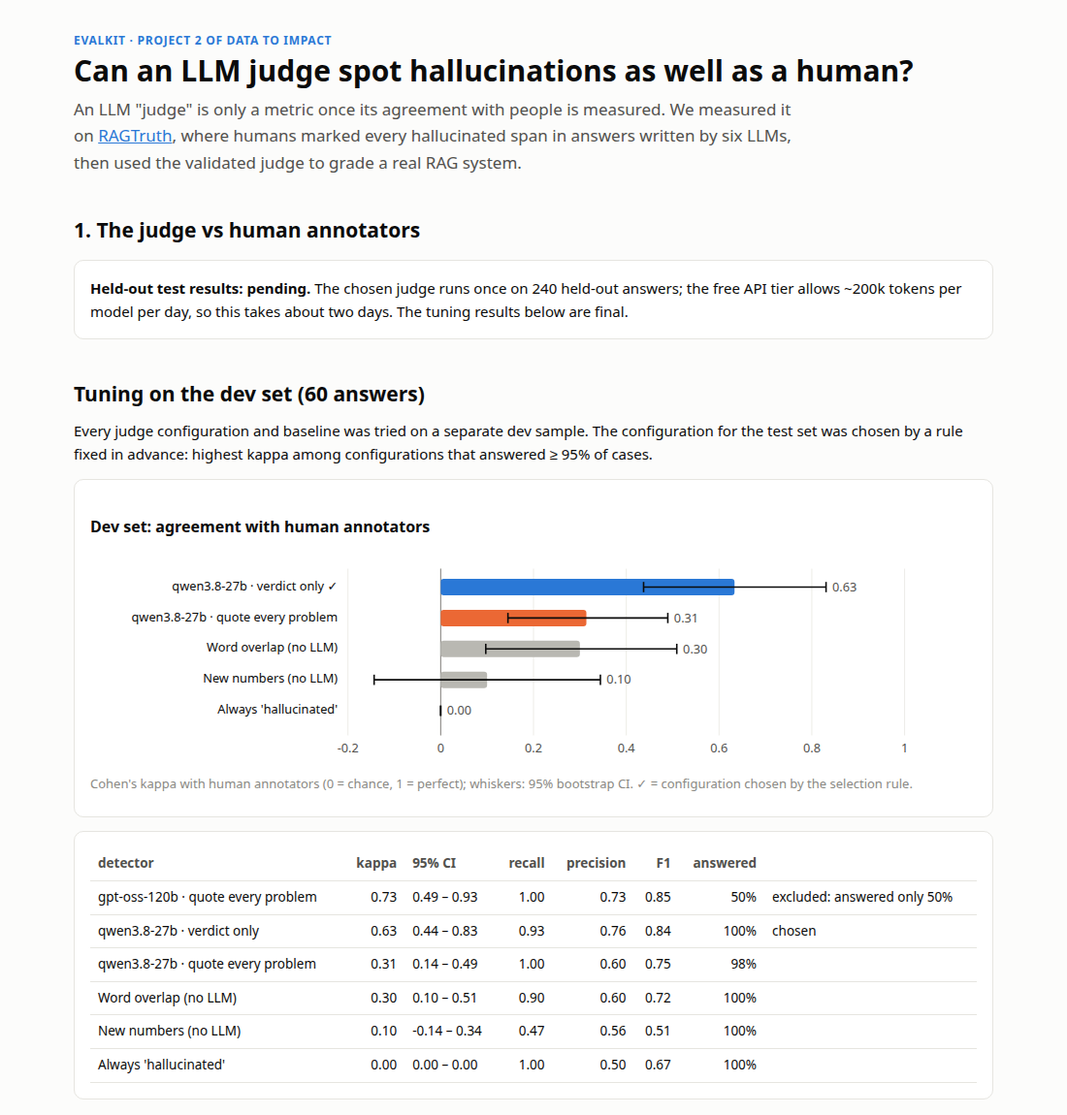
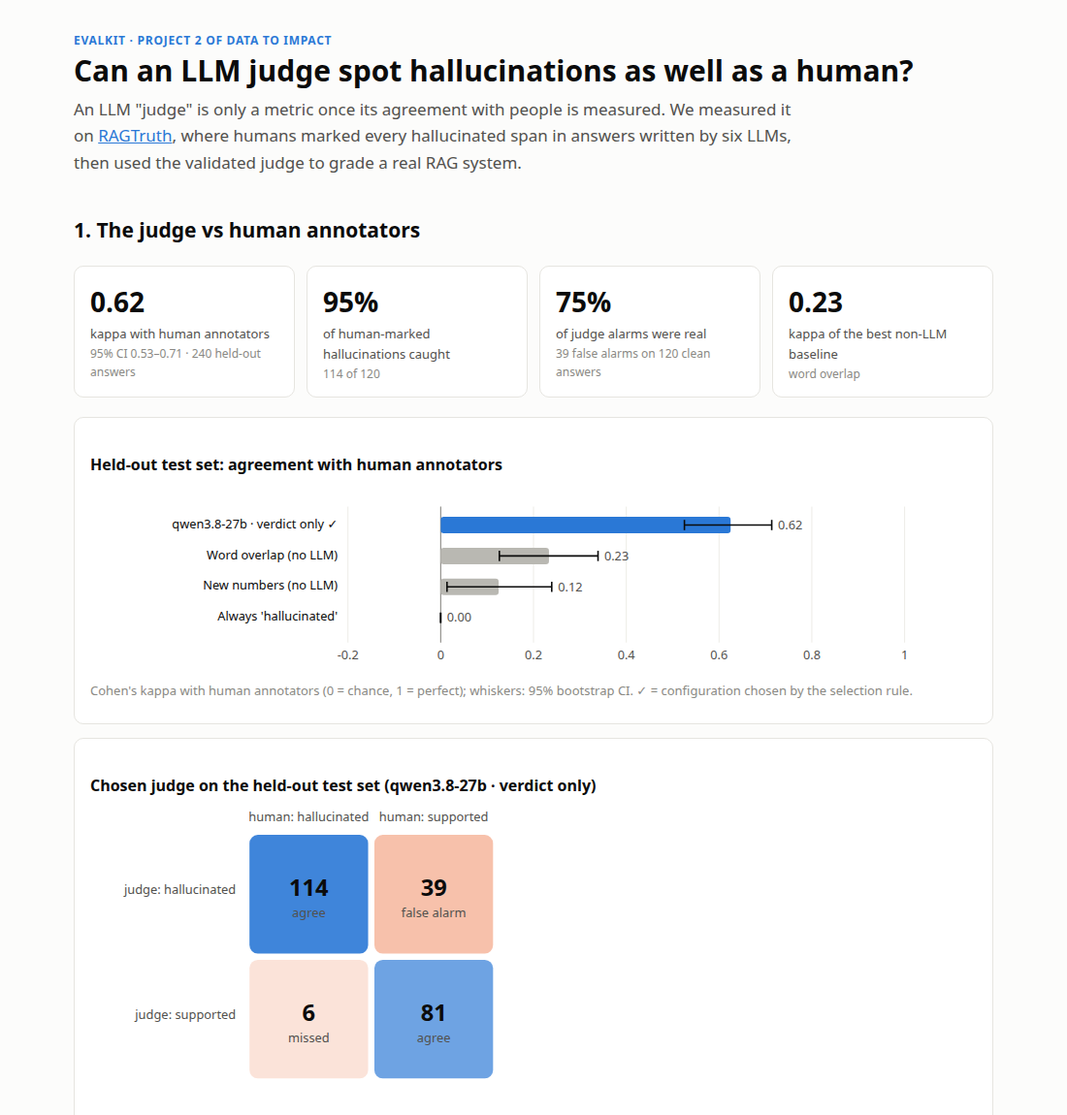
Evals: report page with final held-out results, examples of misses and false alarms, StudyRAG comparison

diff --git a/02-llm-evals/site/index.html b/02-llm-evals/site/index.html
@@ -36,15 +36,33 @@ blockquote{margin:6px 0;padding:6px 10px;border-left:3px solid var(--accent2);ba
 <a href="https://github.com/ParticleMedia/RAGTruth">RAGTruth</a>, where humans marked every hallucinated span in
 answers written by six LLMs, then used the validated judge to grade a real RAG system.</p>
 <h2>1. The judge vs human annotators</h2>
-<div class="card"><b>Held-out test results: pending.</b> The chosen judge runs once on 240 held-out answers; the free API tier allows ~200k tokens per model per day, so this takes about two days. The tuning results below are final.</div><h2>Tuning on the dev set (60 answers)</h2><p>Every judge configuration and baseline was tried on a separate dev sample. The configuration for the test set was chosen by a rule fixed in advance: highest kappa among configurations that answered ≥ 95% of cases.</p><div class="card"><h3>Dev set: agreement with human annotators</h3><svg viewBox="0 0 860 208" width="100%" role="img" aria-label="Dev set: agreement with human annotators"><line class="grid" x1="250.0" x2="250.0" y1="22" y2="184"/><text x="250.0" y="200" text-anchor="middle">-0.2</text><line class="grid" x1="340.0" x2="340.0" y1="22" y2="184"/><text x="340.0" y="200" text-anchor="middle">0</text><line class="grid" x1="430.0" x2="430.0" y1="22" y2="184"/><text x="430.0" y="200" text-anchor="middle">0.2</text><line class="grid" x1="520.0" x2="520.0" y1="22" y2="184"/><text x="520.0" y="200" text-anchor="middle">0.4</text><line class="grid" x1="610.0" x2="610.0" y1="22" y2="184"/><text x="610.0" y="200" text-anchor="middle">0.6</text><line class="grid" x1="700.0" x2="700.0" y1="22" y2="184"/><text x="700.0" y="200" text-anchor="middle">0.8</text><line class="grid" x1="790.0" x2="790.0" y1="22" y2="184"/><text x="790.0" y="200" text-anchor="middle">1</text><line class="axis" x1="340.0" x2="340.0" y1="22" y2="184" style="stroke:var(--muted)"/><text class="lab" x="240" y="43" text-anchor="end">qwen3.8-27b · verdict only ✓</text><rect x="340.0" y="32" width="285.0" height="16" rx="3" fill="var(--accent)"><title>qwen3.8-27b · verdict only ✓: 0.633</title></rect><line x1="536.8" x2="713.8" y1="40" y2="40" stroke="var(--ink)" stroke-width="1.5"/><line x1="536.8" x2="536.8" y1="35" y2="45" stroke="var(--ink)" stroke-width="1.5"/><line x1="713.8" x2="713.8" y1="35" y2="45" stroke="var(--ink)" stroke-width="1.5"/><text x="719.8" y="44">0.63</text><text class="lab" x="240" y="73" text-anchor="end">qwen3.8-27b · quote every problem</text><rect x="340.0" y="62" width="141.3" height="16" rx="3" fill="var(--accent2)"><title>qwen3.8-27b · quote every problem: 0.314</title></rect><line x1="405.2" x2="560.3" y1="70" y2="70" stroke="var(--ink)" stroke-width="1.5"/><line x1="405.2" x2="405.2" y1="65" y2="75" stroke="var(--ink)" stroke-width="1.5"/><line x1="560.3" x2="560.3" y1="65" y2="75" stroke="var(--ink)" stroke-width="1.5"/><text x="566.3" y="74">0.31</text><text class="lab" x="240" y="103" text-anchor="end">Word overlap (no LLM)</text><rect x="340.0" y="92" width="135.0" height="16" rx="3" fill="var(--base)"><title>Word overlap (no LLM): 0.300</title></rect><line x1="383.7" x2="569.0" y1="100" y2="100" stroke="var(--ink)" stroke-width="1.5"/><line x1="383.7" x2="383.7" y1="95" y2="105" stroke="var(--ink)" stroke-width="1.5"/><line x1="569.0" x2="569.0" y1="95" y2="105" stroke="var(--ink)" stroke-width="1.5"/><text x="575.0" y="104">0.30</text><text class="lab" x="240" y="133" text-anchor="end">New numbers (no LLM)</text><rect x="340.0" y="122" width="45.0" height="16" rx="3" fill="var(--base)"><title>New numbers (no LLM): 0.100</title></rect><line x1="275.4" x2="494.9" y1="130" y2="130" stroke="var(--ink)" stroke-width="1.5"/><line x1="275.4" x2="275.4" y1="125" y2="135" stroke="var(--ink)" stroke-width="1.5"/><line x1="494.9" x2="494.9" y1="125" y2="135" stroke="var(--ink)" stroke-width="1.5"/><text x="500.9" y="134">0.10</text><text class="lab" x="240" y="163" text-anchor="end">Always &#x27;hallucinated&#x27;</text><rect x="340.0" y="152" width="0.0" height="16" rx="3" fill="var(--base)"><title>Always &#x27;hallucinated&#x27;: 0.000</title></rect><line x1="340.0" x2="340.0" y1="160" y2="160" stroke="var(--ink)" stroke-width="1.5"/><line x1="340.0" x2="340.0" y1="155" y2="165" stroke="var(--ink)" stroke-width="1.5"/><line x1="340.0" x2="340.0" y1="155" y2="165" stroke="var(--ink)" stroke-width="1.5"/><text x="346.0" y="164">0.00</text></svg><p class="muted">Cohen&#x27;s kappa with human annotators (0 = chance, 1 = perfect); whiskers: 95% bootstrap CI. ✓ = configuration chosen by the selection rule.</p></div><div class="card"><table><thead><tr><th class="">detector</th><th class="num">kappa</th><th class="">95% CI</th><th class="num">recall</th><th class="num">precision</th><th class="num">F1</th><th class="num">answered</th><th class=""></th></tr></thead><tbody><tr><td class="">gpt-oss-120b · quote every problem</td><td class="num">0.73</td><td class="">0.49 – 0.93</td><td class="num">1.00</td><td class="num">0.73</td><td class="num">0.85</td><td class="num">50%</td><td class="">excluded: answered only 50%</td></tr><tr><td class="">qwen3.8-27b · verdict only</td><td class="num">0.63</td><td class="">0.44 – 0.83</td><td class="num">0.93</td><td class="num">0.76</td><td class="num">0.84</td><td class="num">100%</td><td class="">chosen</td></tr><tr><td class="">qwen3.8-27b · quote every problem</td><td class="num">0.31</td><td class="">0.14 – 0.49</td><td class="num">1.00</td><td class="num">0.60</td><td class="num">0.75</td><td class="num">98%</td><td class=""></td></tr><tr><td class="">Word overlap (no LLM)</td><td class="num">0.30</td><td class="">0.10 – 0.51</td><td class="num">0.90</td><td class="num">0.60</td><td class="num">0.72</td><td class="num">100%</td><td class=""></td></tr><tr><td class="">New numbers (no LLM)</td><td class="num">0.10</td><td class="">-0.14 – 0.34</td><td class="num">0.47</td><td class="num">0.56</td><td class="num">0.51</td><td class="num">100%</td><td class=""></td></tr><tr><td class="">Always &#x27;hallucinated&#x27;</td><td class="num">0.00</td><td class="">0.00 – 0.00</td><td class="num">1.00</td><td class="num">0.50</td><td class="num">0.67</td><td class="num">100%</td><td class=""></td></tr></tbody></table></div>
+<div class="tiles"><div class="tile"><div class="v">0.62</div><div class="l">kappa with human annotators</div><div class="s">95% CI 0.53–0.71 · 240 held-out answers</div></div><div class="tile"><div class="v">95%</div><div class="l">of human-marked hallucinations caught</div><div class="s">114 of 120</div></div><div class="tile"><div class="v">75%</div><div class="l">of judge alarms were real</div><div class="s">39 false alarms on 120 clean answers</div></div><div class="tile"><div class="v">0.23</div><div class="l">kappa of the best non-LLM baseline</div><div class="s">word overlap</div></div></div><div class="card"><h3>Held-out test set: agreement with human annotators</h3><svg viewBox="0 0 860 178" width="100%" role="img" aria-label="Held-out test set: agreement with human annotators"><line class="grid" x1="250.0" x2="250.0" y1="22" y2="154"/><text x="250.0" y="170" text-anchor="middle">-0.2</text><line class="grid" x1="340.0" x2="340.0" y1="22" y2="154"/><text x="340.0" y="170" text-anchor="middle">0</text><line class="grid" x1="430.0" x2="430.0" y1="22" y2="154"/><text x="430.0" y="170" text-anchor="middle">0.2</text><line class="grid" x1="520.0" x2="520.0" y1="22" y2="154"/><text x="520.0" y="170" text-anchor="middle">0.4</text><line class="grid" x1="610.0" x2="610.0" y1="22" y2="154"/><text x="610.0" y="170" text-anchor="middle">0.6</text><line class="grid" x1="700.0" x2="700.0" y1="22" y2="154"/><text x="700.0" y="170" text-anchor="middle">0.8</text><line class="grid" x1="790.0" x2="790.0" y1="22" y2="154"/><text x="790.0" y="170" text-anchor="middle">1</text><line class="axis" x1="340.0" x2="340.0" y1="22" y2="154" style="stroke:var(--muted)"/><text class="lab" x="240" y="43" text-anchor="end">qwen3.8-27b · verdict only ✓</text><rect x="340.0" y="32" width="281.2" height="16" rx="3" fill="var(--accent)"><title>qwen3.8-27b · verdict only ✓: 0.625</title></rect><line x1="576.4" x2="661.1" y1="40" y2="40" stroke="var(--ink)" stroke-width="1.5"/><line x1="576.4" x2="576.4" y1="35" y2="45" stroke="var(--ink)" stroke-width="1.5"/><line x1="661.1" x2="661.1" y1="35" y2="45" stroke="var(--ink)" stroke-width="1.5"/><text x="667.1" y="44">0.62</text><text class="lab" x="240" y="73" text-anchor="end">Word overlap (no LLM)</text><rect x="340.0" y="62" width="105.0" height="16" rx="3" fill="var(--base)"><title>Word overlap (no LLM): 0.233</title></rect><line x1="396.9" x2="492.6" y1="70" y2="70" stroke="var(--ink)" stroke-width="1.5"/><line x1="396.9" x2="396.9" y1="65" y2="75" stroke="var(--ink)" stroke-width="1.5"/><line x1="492.6" x2="492.6" y1="65" y2="75" stroke="var(--ink)" stroke-width="1.5"/><text x="498.6" y="74">0.23</text><text class="lab" x="240" y="103" text-anchor="end">New numbers (no LLM)</text><rect x="340.0" y="92" width="56.2" height="16" rx="3" fill="var(--base)"><title>New numbers (no LLM): 0.125</title></rect><line x1="346.1" x2="447.7" y1="100" y2="100" stroke="var(--ink)" stroke-width="1.5"/><line x1="346.1" x2="346.1" y1="95" y2="105" stroke="var(--ink)" stroke-width="1.5"/><line x1="447.7" x2="447.7" y1="95" y2="105" stroke="var(--ink)" stroke-width="1.5"/><text x="453.7" y="104">0.12</text><text class="lab" x="240" y="133" text-anchor="end">Always &#x27;hallucinated&#x27;</text><rect x="340.0" y="122" width="0.0" height="16" rx="3" fill="var(--base)"><title>Always &#x27;hallucinated&#x27;: 0.000</title></rect><line x1="340.0" x2="340.0" y1="130" y2="130" stroke="var(--ink)" stroke-width="1.5"/><line x1="340.0" x2="340.0" y1="125" y2="135" stroke="var(--ink)" stroke-width="1.5"/><line x1="340.0" x2="340.0" y1="125" y2="135" stroke="var(--ink)" stroke-width="1.5"/><text x="346.0" y="134">0.00</text></svg><p class="muted">Cohen&#x27;s kappa with human annotators (0 = chance, 1 = perfect); whiskers: 95% bootstrap CI. ✓ = configuration chosen by the selection rule.</p></div><div class="card"><h3>Chosen judge on the held-out test set (qwen3.8-27b · verdict only)</h3><svg viewBox="0 0 410 300" width="100%" style="max-width:440px" role="img" aria-label="Chosen judge on the held-out test set (qwen3.8-27b · verdict only)"><text x="210.0" y="16" text-anchor="middle">human: hallucinated</text><text x="330.0" y="16" text-anchor="middle">human: supported</text><text x="140" y="86.0" text-anchor="end">judge: hallucinated</text><text x="140" y="206.0" text-anchor="end">judge: supported</text><rect x="153.0" y="29.0" width="114" height="114" rx="8" fill="var(--accent)" fill-opacity="0.90"/><text class="lab" x="210.0" y="88.0" text-anchor="middle" style="font-size:22px;font-weight:700">114</text><text x="210.0" y="108.0" text-anchor="middle">agree</text><rect x="273.0" y="29.0" width="114" height="114" rx="8" fill="var(--accent2)" fill-opacity="0.41"/><text class="lab" x="330.0" y="88.0" text-anchor="middle" style="font-size:22px;font-weight:700">39</text><text x="330.0" y="108.0" text-anchor="middle">false alarm</text><rect x="153.0" y="149.0" width="114" height="114" rx="8" fill="var(--accent2)" fill-opacity="0.19"/><text class="lab" x="210.0" y="208.0" text-anchor="middle" style="font-size:22px;font-weight:700">6</text><text x="210.0" y="228.0" text-anchor="middle">missed</text><rect x="273.0" y="149.0" width="114" height="114" rx="8" fill="var(--accent)" fill-opacity="0.68"/><text class="lab" x="330.0" y="208.0" text-anchor="middle" style="font-size:22px;font-weight:700">81</text><text x="330.0" y="228.0" text-anchor="middle">agree</text></svg></div><h3>Where does it agree less?</h3><div class="card"><table><thead><tr><th class="">task</th><th class="num">n</th><th class="num">kappa</th><th class="num">recall</th><th class="num">precision</th><th class="num">accuracy</th></tr></thead><tbody><tr><td class="">Data2txt</td><td class="num">60</td><td class="num">0.60</td><td class="num">0.93</td><td class="num">0.74</td><td class="num">0.80</td></tr><tr><td class="">QA</td><td class="num">120</td><td class="num">0.55</td><td class="num">0.98</td><td class="num">0.69</td><td class="num">0.78</td></tr><tr><td class="">Summary</td><td class="num">60</td><td class="num">0.80</td><td class="num">0.90</td><td class="num">0.90</td><td class="num">0.90</td></tr></tbody></table></div><div class="card"><table><thead><tr><th class="">generator</th><th class="num">n</th><th class="num">kappa</th><th class="num">recall</th><th class="num">precision</th><th class="num">accuracy</th></tr></thead><tbody><tr><td class="">gpt-3.5-turbo-0613</td><td class="num">27</td><td class="num">0.43</td><td class="num">0.60</td><td class="num">0.50</td><td class="num">0.81</td></tr><tr><td class="">gpt-4-0613</td><td class="num">39</td><td class="num">0.49</td><td class="num">0.80</td><td class="num">0.44</td><td class="num">0.85</td></tr><tr><td class="">llama-2-13b-chat</td><td class="num">37</td><td class="num">0.53</td><td class="num">1.00</td><td class="num">0.77</td><td class="num">0.81</td></tr><tr><td class="">llama-2-70b-chat</td><td class="num">38</td><td class="num">0.53</td><td class="num">0.89</td><td class="num">0.70</td><td class="num">0.76</td></tr><tr><td class="">llama-2-7b-chat</td><td class="num">56</td><td class="num">0.37</td><td class="num">0.97</td><td class="num">0.70</td><td class="num">0.73</td></tr><tr><td class="">mistral-7B-instruct</td><td class="num">43</td><td class="num">0.76</td><td class="num">1.00</td><td class="num">0.92</td><td class="num">0.93</td></tr></tbody></table></div><h3>Hallucinations the judge missed</h3><div class="card"><p class='muted'>QA · written by gpt-4-0613</p><blockquote>To perform skill moves on FIFA 16 for Xbox One, you need to use combinations of buttons on your controller. For example, to do a Ball Juggle while your character is standing, hold LT and tap RB. Video guides showing what each skill move looks like are available at the top of the relevant page.</blockquote><p><b>Humans marked:</b> “Video guides showing what each skill move looks like are available at the top of the relevant page.” (Evident Baseless Info)</p></div><div class="card"><p class='muted'>Data2txt · written by gpt-3.5-turbo-0613</p><blockquote>Soho Restaurant &amp; Music Club is a local business located at 1221 State St, Ste 205 in Santa Barbara, CA. It is a versatile establishment that offers music, food, and drinks for its customers. The venue operates from Monday to Sunday, with varying hours each day, allowing patrons to enjoy their services throughout the week.
+
+As a music venue, Soho provides a platform for live performances, creating a vibrant atmospher…</blockquote><p><b>Humans marked:</b> “The venue operates from Monday to Sunday” (Evident Conflict)</p></div><div class="card"><p class='muted'>Summary · written by llama-2-70b-chat</p><blockquote>The Rolling Stone article about a purported gang rape at the University of Virginia (UVA) has been retracted, but the story has brought attention to the university&#x27;s handling of sexual assault cases. The university has never expelled a student for sexual assault, even when the student admits to it. The Virginia attorney general has asked a law firm to investigate how UVA historically handled allegations of sexual ass…</blockquote><p><b>Humans marked:</b> “Survivors and advocates are concerned that the retraction may discourage others from coming forward, but the article has sparked a necessary conversation about ” (Evident Baseless Info)</p></div><h3>False alarms</h3><div class="card"><p class='muted'>QA · written by llama-2-13b-chat</p><blockquote>Based on the given passages, here are the steps to fold a quilt:
+
+1. Lay the quilt on a flat surface.
+2. Fold the lower right corner up towards the center of the quilt, ensuring the fold is on the bias.
+3. Fold the lower left corner up towards the center of the quilt, also on the bias.
+4. Fold the top left corner down towards the center of the quilt, again on the bias.
+5. Fold the top right corner down towards the ce…</blockquote><p><b>Judge objected to:</b> (verdict-only rubric: no quote)</p></div><div class="card"><p class='muted'>QA · written by llama-2-7b-chat</p><blockquote>Based on the provided passages, the main differences between essential and non-essential amino acids are:
+
+Essential Amino Acids:
+
+* Must be obtained from the diet
+* Cannot be produced by the body
+* Nine out of 20 amino acids are considered essential (valine, isoleucine, leucine, lysine, methionine, phenylalanine, threonine, tryptophan, and histidine for infants)
+
+Non-Essential Amino Acids:
+
+* Can be produced by the …</blockquote><p><b>Judge objected to:</b> (verdict-only rubric: no quote)</p></div><div class="card"><p class='muted'>Data2txt · written by llama-2-70b-chat</p><blockquote>Metropulos Fine Foods is a restaurant located in Santa Barbara, CA, offering a variety of sandwiches, soups, salads, and specialty food items. According to customer reviews, the establishment has reasonable prices, delicious sandwiches, and a cozy atmosphere. One reviewer noted that the place has a old-school vibe, and the staff can sometimes come across as rushing customers. Some customers have also noted that the p…</blockquote><p><b>Judge objected to:</b> (verdict-only rubric: no quote)</p></div><h2>Tuning on the dev set (60 answers)</h2><p>Every judge configuration and baseline was tried on a separate dev sample. The configuration for the test set was chosen by a rule fixed in advance: highest kappa among configurations that answered ≥ 95% of cases.</p><div class="card"><h3>Dev set: agreement with human annotators</h3><svg viewBox="0 0 860 298" width="100%" role="img" aria-label="Dev set: agreement with human annotators"><line class="grid" x1="250.0" x2="250.0" y1="22" y2="274"/><text x="250.0" y="290" text-anchor="middle">-0.2</text><line class="grid" x1="340.0" x2="340.0" y1="22" y2="274"/><text x="340.0" y="290" text-anchor="middle">0</text><line class="grid" x1="430.0" x2="430.0" y1="22" y2="274"/><text x="430.0" y="290" text-anchor="middle">0.2</text><line class="grid" x1="520.0" x2="520.0" y1="22" y2="274"/><text x="520.0" y="290" text-anchor="middle">0.4</text><line class="grid" x1="610.0" x2="610.0" y1="22" y2="274"/><text x="610.0" y="290" text-anchor="middle">0.6</text><line class="grid" x1="700.0" x2="700.0" y1="22" y2="274"/><text x="700.0" y="290" text-anchor="middle">0.8</text><line class="grid" x1="790.0" x2="790.0" y1="22" y2="274"/><text x="790.0" y="290" text-anchor="middle">1</text><line class="axis" x1="340.0" x2="340.0" y1="22" y2="274" style="stroke:var(--muted)"/><text class="lab" x="240" y="43" text-anchor="end">qwen3.8-27b · verdict only ✓</text><rect x="340.0" y="32" width="285.0" height="16" rx="3" fill="var(--accent)"><title>qwen3.8-27b · verdict only ✓: 0.633</title></rect><line x1="536.8" x2="713.8" y1="40" y2="40" stroke="var(--ink)" stroke-width="1.5"/><line x1="536.8" x2="536.8" y1="35" y2="45" stroke="var(--ink)" stroke-width="1.5"/><line x1="713.8" x2="713.8" y1="35" y2="45" stroke="var(--ink)" stroke-width="1.5"/><text x="719.8" y="44">0.63</text><text class="lab" x="240" y="73" text-anchor="end">gpt-oss-120b · verdict only</text><rect x="340.0" y="62" width="255.0" height="16" rx="3" fill="var(--accent2)"><title>gpt-oss-120b · verdict only: 0.567</title></rect><line x1="501.2" x2="685.0" y1="70" y2="70" stroke="var(--ink)" stroke-width="1.5"/><line x1="501.2" x2="501.2" y1="65" y2="75" stroke="var(--ink)" stroke-width="1.5"/><line x1="685.0" x2="685.0" y1="65" y2="75" stroke="var(--ink)" stroke-width="1.5"/><text x="691.0" y="74">0.57</text><text class="lab" x="240" y="103" text-anchor="end">gpt-oss-120b · major/minor problems</text><rect x="340.0" y="92" width="240.0" height="16" rx="3" fill="var(--accent2)"><title>gpt-oss-120b · major/minor problems: 0.533</title></rect><line x1="480.7" x2="669.6" y1="100" y2="100" stroke="var(--ink)" stroke-width="1.5"/><line x1="480.7" x2="480.7" y1="95" y2="105" stroke="var(--ink)" stroke-width="1.5"/><line x1="669.6" x2="669.6" y1="95" y2="105" stroke="var(--ink)" stroke-width="1.5"/><text x="675.6" y="104">0.53</text><text class="lab" x="240" y="133" text-anchor="end">qwen3.8-27b · major/minor problems</text><rect x="340.0" y="122" width="195.0" height="16" rx="3" fill="var(--accent2)"><title>qwen3.8-27b · major/minor problems: 0.433</title></rect><line x1="451.3" x2="622.8" y1="130" y2="130" stroke="var(--ink)" stroke-width="1.5"/><line x1="451.3" x2="451.3" y1="125" y2="135" stroke="var(--ink)" stroke-width="1.5"/><line x1="622.8" x2="622.8" y1="125" y2="135" stroke="var(--ink)" stroke-width="1.5"/><text x="628.8" y="134">0.43</text><text class="lab" x="240" y="163" text-anchor="end">qwen3.8-27b · quote every problem</text><rect x="340.0" y="152" width="141.3" height="16" rx="3" fill="var(--accent2)"><title>qwen3.8-27b · quote every problem: 0.314</title></rect><line x1="405.2" x2="560.3" y1="160" y2="160" stroke="var(--ink)" stroke-width="1.5"/><line x1="405.2" x2="405.2" y1="155" y2="165" stroke="var(--ink)" stroke-width="1.5"/><line x1="560.3" x2="560.3" y1="155" y2="165" stroke="var(--ink)" stroke-width="1.5"/><text x="566.3" y="164">0.31</text><text class="lab" x="240" y="193" text-anchor="end">Word overlap (no LLM)</text><rect x="340.0" y="182" width="135.0" height="16" rx="3" fill="var(--base)"><title>Word overlap (no LLM): 0.300</title></rect><line x1="383.7" x2="569.0" y1="190" y2="190" stroke="var(--ink)" stroke-width="1.5"/><line x1="383.7" x2="383.7" y1="185" y2="195" stroke="var(--ink)" stroke-width="1.5"/><line x1="569.0" x2="569.0" y1="185" y2="195" stroke="var(--ink)" stroke-width="1.5"/><text x="575.0" y="194">0.30</text><text class="lab" x="240" y="223" text-anchor="end">New numbers (no LLM)</text><rect x="340.0" y="212" width="45.0" height="16" rx="3" fill="var(--base)"><title>New numbers (no LLM): 0.100</title></rect><line x1="275.4" x2="494.9" y1="220" y2="220" stroke="var(--ink)" stroke-width="1.5"/><line x1="275.4" x2="275.4" y1="215" y2="225" stroke="var(--ink)" stroke-width="1.5"/><line x1="494.9" x2="494.9" y1="215" y2="225" stroke="var(--ink)" stroke-width="1.5"/><text x="500.9" y="224">0.10</text><text class="lab" x="240" y="253" text-anchor="end">Always &#x27;hallucinated&#x27;</text><rect x="340.0" y="242" width="0.0" height="16" rx="3" fill="var(--base)"><title>Always &#x27;hallucinated&#x27;: 0.000</title></rect><line x1="340.0" x2="340.0" y1="250" y2="250" stroke="var(--ink)" stroke-width="1.5"/><line x1="340.0" x2="340.0" y1="245" y2="255" stroke="var(--ink)" stroke-width="1.5"/><line x1="340.0" x2="340.0" y1="245" y2="255" stroke="var(--ink)" stroke-width="1.5"/><text x="346.0" y="254">0.00</text></svg><p class="muted">Cohen&#x27;s kappa with human annotators (0 = chance, 1 = perfect); whiskers: 95% bootstrap CI. ✓ = configuration chosen by the selection rule.</p></div><div class="card"><table><thead><tr><th class="">detector</th><th class="num">kappa</th><th class="">95% CI</th><th class="num">recall</th><th class="num">precision</th><th class="num">F1</th><th class="num">answered</th><th class=""></th></tr></thead><tbody><tr><td class="">gpt-oss-120b · quote every problem</td><td class="num">0.73</td><td class="">0.49 – 0.93</td><td class="num">1.00</td><td class="num">0.73</td><td class="num">0.85</td><td class="num">50%</td><td class="">excluded: answered only 50%</td></tr><tr><td class="">qwen3.8-27b · verdict only</td><td class="num">0.63</td><td class="">0.44 – 0.83</td><td class="num">0.93</td><td class="num">0.76</td><td class="num">0.84</td><td class="num">100%</td><td class="">chosen</td></tr><tr><td class="">gpt-oss-120b · verdict only</td><td class="num">0.57</td><td class="">0.36 – 0.77</td><td class="num">0.87</td><td class="num">0.74</td><td class="num">0.80</td><td class="num">100%</td><td class=""></td></tr><tr><td class="">gpt-oss-120b · major/minor problems</td><td class="num">0.53</td><td class="">0.31 – 0.73</td><td class="num">0.80</td><td class="num">0.75</td><td class="num">0.77</td><td class="num">100%</td><td class=""></td></tr><tr><td class="">qwen3.8-27b · major/minor problems</td><td class="num">0.43</td><td class="">0.25 – 0.63</td><td class="num">1.00</td><td class="num">0.64</td><td class="num">0.78</td><td class="num">100%</td><td class=""></td></tr><tr><td class="">qwen3.8-27b · quote every problem</td><td class="num">0.31</td><td class="">0.14 – 0.49</td><td class="num">1.00</td><td class="num">0.60</td><td class="num">0.75</td><td class="num">98%</td><td class=""></td></tr><tr><td class="">Word overlap (no LLM)</td><td class="num">0.30</td><td class="">0.10 – 0.51</td><td class="num">0.90</td><td class="num">0.60</td><td class="num">0.72</td><td class="num">100%</td><td class=""></td></tr><tr><td class="">New numbers (no LLM)</td><td class="num">0.10</td><td class="">-0.14 – 0.34</td><td class="num">0.47</td><td class="num">0.56</td><td class="num">0.51</td><td class="num">100%</td><td class=""></td></tr><tr><td class="">Always &#x27;hallucinated&#x27;</td><td class="num">0.00</td><td class="">0.00 – 0.00</td><td class="num">1.00</td><td class="num">0.50</td><td class="num">0.67</td><td class="num">100%</td><td class=""></td></tr></tbody></table></div>
 <h2>2. Using it: is StudyRAG v2 really better than v1?</h2>
 <p>StudyRAG (project 1) answers questions from course material. Same 42 questions, two versions, compared item by
 item with paired tests (McNemar for pass/fail metrics, paired bootstrap otherwise).</p>
-<div class="card"><b>Pending.</b> StudyRAG answers are graded once the judge is chosen.</div>
+<div class="card"><table><thead><tr><th class="">metric</th><th class="num">n</th><th class="num">v1</th><th class="num">v2</th><th class="num">Δ</th><th class="">95% CI of Δ</th><th class="num">p</th><th class="">verdict</th></tr></thead><tbody><tr><td class="">fact_recall</td><td class="num">34</td><td class="num">0.917</td><td class="num">0.902</td><td class="num">-0.015</td><td class="">-0.084 … +0.049</td><td class="num">0.743</td><td class="">within noise</td></tr><tr><td class="">judge_correctness</td><td class="num">34</td><td class="num">0.926</td><td class="num">0.912</td><td class="num">-0.015</td><td class="">-0.088 … +0.044</td><td class="num">0.833</td><td class="">within noise</td></tr><tr><td class="">judge_faithful</td><td class="num">34</td><td class="num">0.882</td><td class="num">0.824</td><td class="num">-0.059</td><td class="">-0.235 … +0.118</td><td class="num">0.754</td><td class="">within noise</td></tr><tr><td class="">verifier_supported_ratio</td><td class="num">34</td><td class="num">0.927</td><td class="num">0.951</td><td class="num">+0.024</td><td class="">-0.043 … +0.087</td><td class="num">0.464</td><td class="">within noise</td></tr><tr><td class="">citation_precision</td><td class="num">34</td><td class="num">0.706</td><td class="num">0.863</td><td class="num">+0.157</td><td class="">+0.039 … +0.289</td><td class="num">0.008</td><td class=""><span class="good">real improvement</span></td></tr><tr><td class="">answered_answerable</td><td class="num">34</td><td class="num">1.000</td><td class="num">1.000</td><td class="num">+0.000</td><td class="">+0.000 … +0.000</td><td class="num">1.000</td><td class="">within noise</td></tr><tr><td class="">refused_unanswerable</td><td class="num">8</td><td class="num">1.000</td><td class="num">1.000</td><td class="num">+0.000</td><td class="">+0.000 … +0.000</td><td class="num">1.000</td><td class="">within noise</td></tr><tr><td class="">seconds</td><td class="num">42</td><td class="num">31.883</td><td class="num">28.519</td><td class="num">-3.364</td><td class="">-4.510 … -2.212</td><td class="num">0.000</td><td class=""><span class="good">real improvement</span></td></tr></tbody></table></div><p>Project 1's word-matching <i>key-fact recall</i> and the LLM correctness judge agree on “mostly correct” for 97% of answered questions (n = 34).</p>
 <h2>How this was measured</h2>
 <p>Judge: an LLM over an OpenAI-compatible API (Groq free tier), temperature 0, JSON output, every response cached.
 Data: a balanced, seeded sample of RAGTruth (dev split for tuning, test split for the final number; ids in
 <code>datasets/ragtruth_ids.json</code>). Agreement: Cohen's kappa, precision/recall/F1 for the "hallucinated"
 class, 95% bootstrap intervals. Code: <a href="https://github.com/Abubakar-idrees-01/data-to-impact/tree/main/02-llm-evals">
 02-llm-evals</a> (Python standard library only).</p>
-<p class="muted">Generated 22 November 2026 by experiments/build_report.py.</p></main></body></html>
+<p class="muted">Generated 25 November 2026 by experiments/build_report.py.</p></main></body></html>
